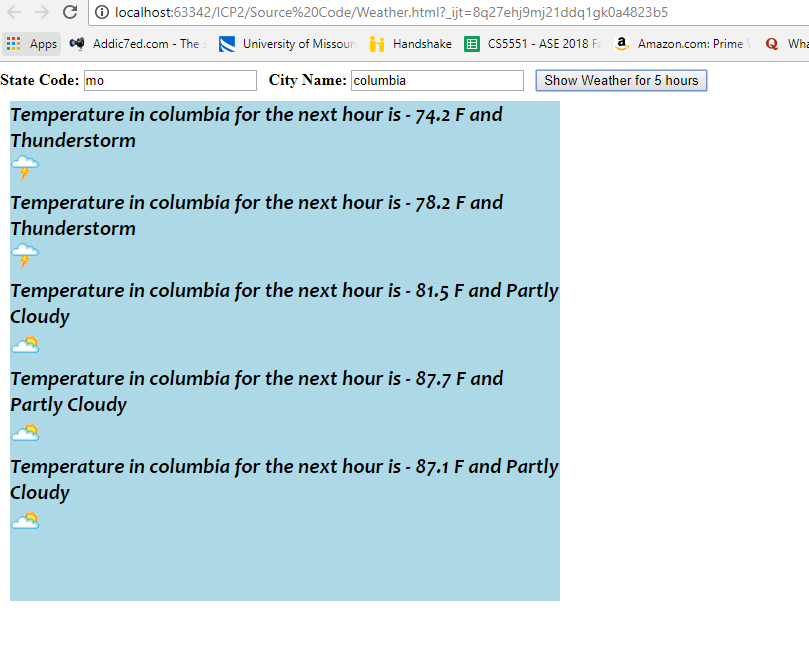
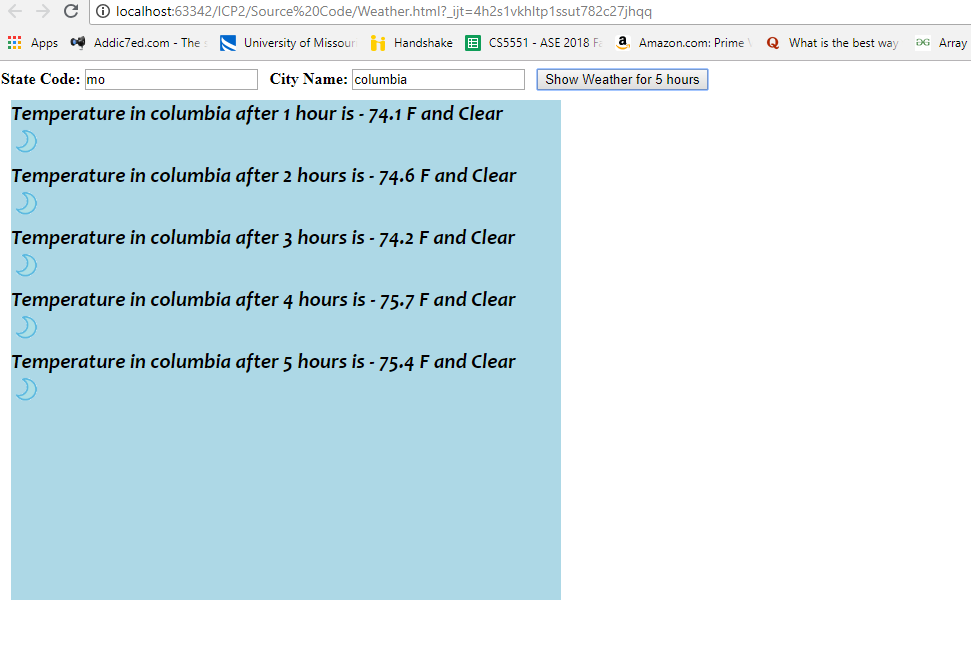
Commit3- -Made some changes For displaying the string on the ui part and replacing the images.

Changed region(s): [[0.0, 0.0, 1.0, 0.9023]]

diff --git a/ICP2/Source Code/Weather.html b/ICP2/Source Code/Weather.html
@@ -2,6 +2,7 @@
 
 <head>
     <script src="https://ajax.googleapis.com/ajax/libs/angularjs/1.4.4/angular.min.js" type="application/javascript"></script>
+    <!--code for styling of web page-->
     <style>
         .weatherModule
         {
@@ -42,12 +43,14 @@
 
 </div>
 
+<!--This is the controller code where the hhtp request is done and parse the json file to fetch the required data-->
 <script>
     angular.module('weather',[])
         .controller('weatherctrl', function($scope, $http) {
             console.log("hi");
             $scope.getWeather = function() {
-                 $http.get('http://api.wunderground.com/api/4bbbc25f4f5946dd/hourly/q/'+$scope.statecode+'/'+$scope.cityname +'.json').success(function(data) {
+                 $http.get('http://api.wunderground.com/api/4bbbc25f4f5946dd/hourly/q/'+$scope.statecode+'/'+$scope.cityname +'.json').success(function(data)
+                 {
                     temp=[];
                     weathers=[];
                     icon=[];
@@ -62,7 +65,12 @@
 
                      $scope.currentweather=[];
                      for (j=0;j<5;j++) {
-                         $scope.currentweather[j]= "Temperature in " + $scope.cityname + " for the next hour is - " + temp[j] + " F and " + weathers[j] ;
+                         if(j==0)
+                         {
+                             $scope.currentweather[j]= "Temperature in " + $scope.cityname + " after  "+ (j+1) + " hour is - " + temp[j] + " F and " + weathers[j] ;
+                         }
+                         else
+                            $scope.currentweather[j]= "Temperature in " + $scope.cityname + " after  "+ (j+1) + " hours is - " + temp[j] + " F and " + weathers[j] ;
                      }
                      $scope.currentIcon=[];
                      $scope.currentIcon= icon;
